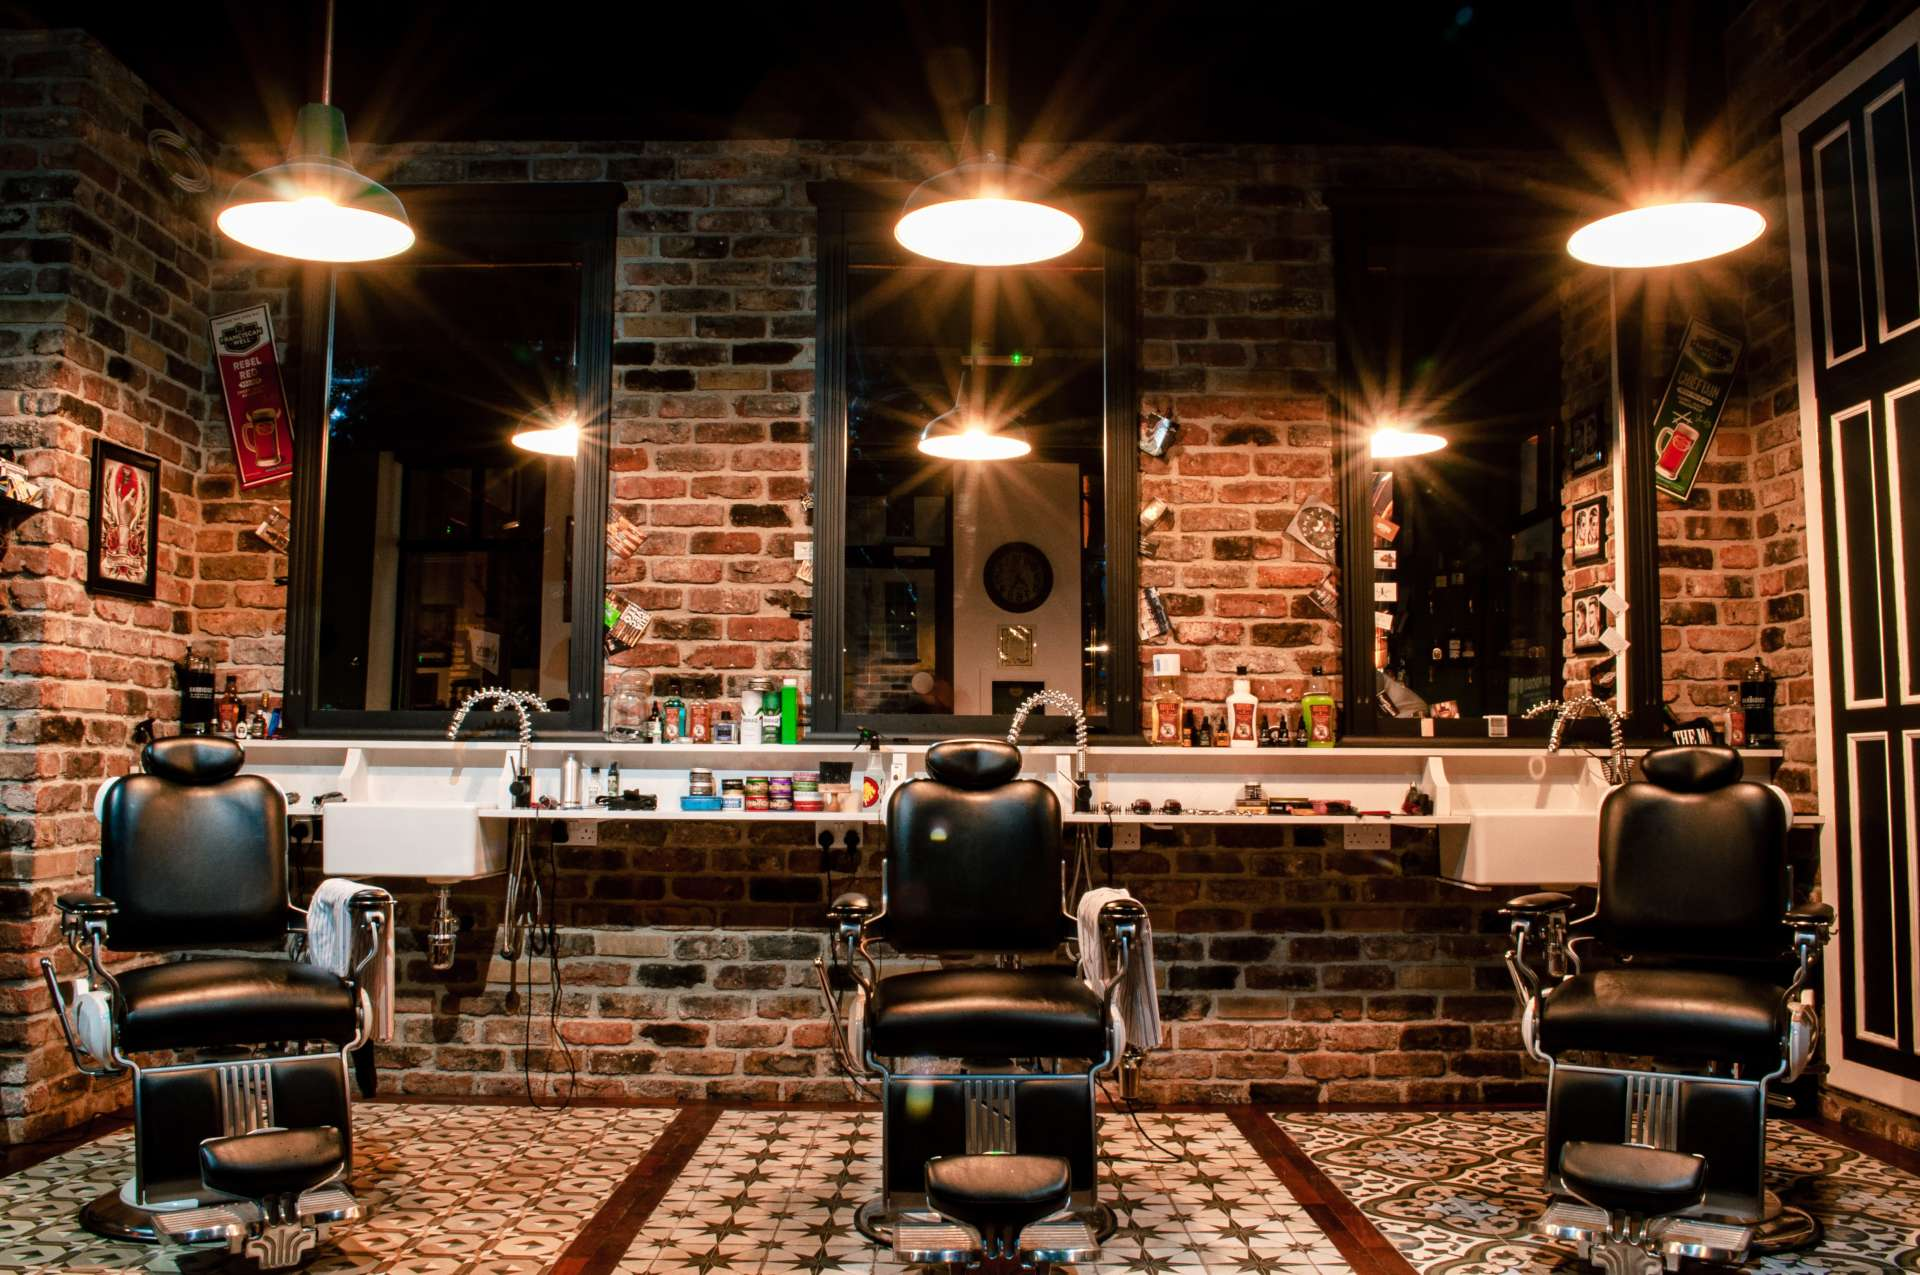
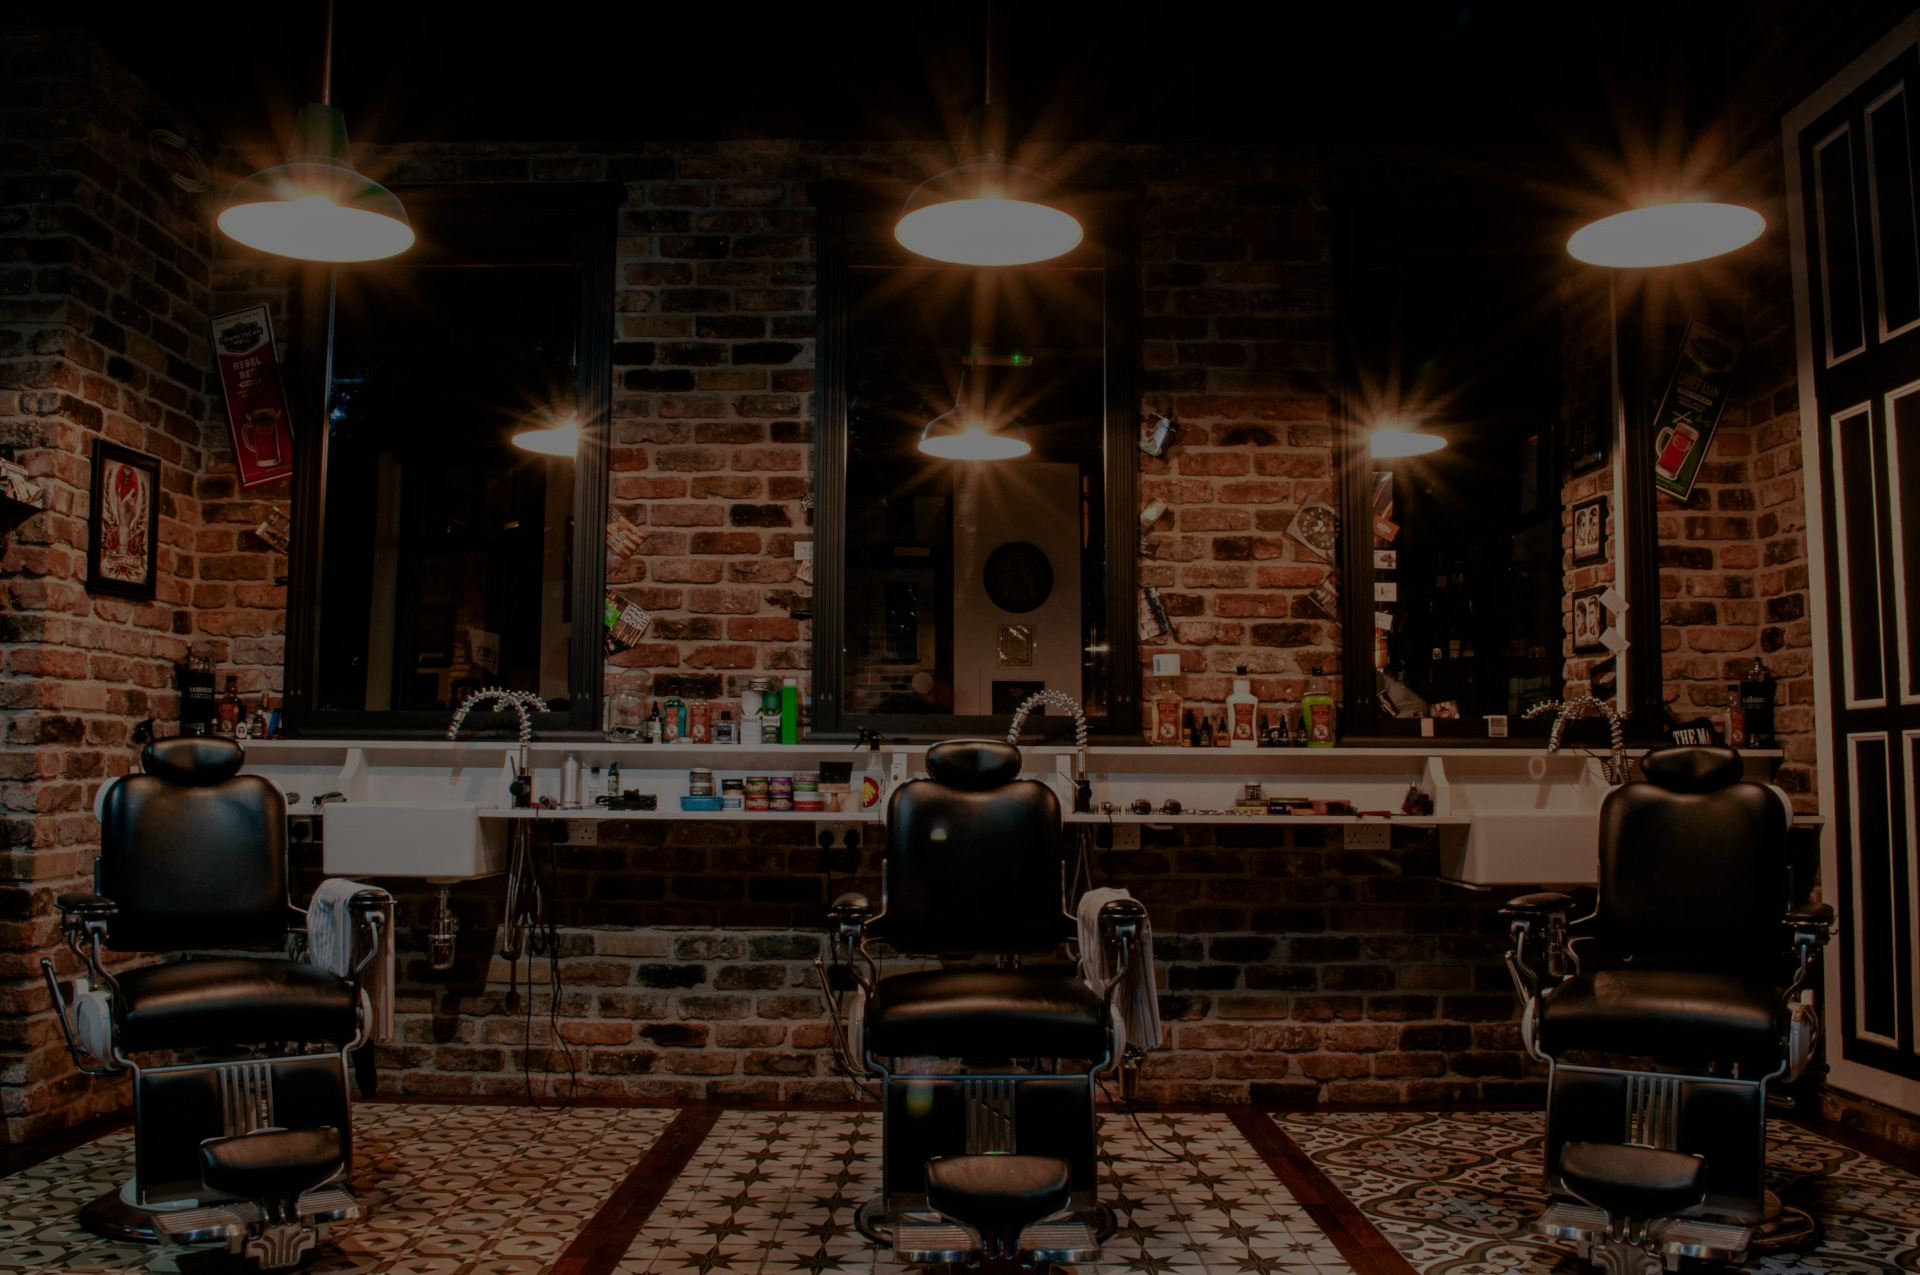
header grund - CSS / html

diff --git a/src/styles/header.scss b/src/styles/header.scss
@@ -1,52 +1,78 @@
 header {
     background-color: #000;
 
-    .nav_container {
-        display: flex;
-        justify-content: space-between;
-        flex-direction: row;
-        align-items: center;
-        width: 100%;
-        height: 40px;
-        background-color: $dark-color;
+    .navbar {
+        padding: 10px 0;
+        border: 2px dashed #0d0c0d;
 
-        .header_logo {
-            a {
-                margin-left: 10px;
-
-                color: #fff;
-                text-decoration: none;
-                text-transform: uppercase;
-                font-family: 'Barlow Semi Condensed', sans-serif;
-                font-size: 2rem;
-                font-weight: 600;
-            }
-        }
-
-        .menu {
+        .nav_container {
+            display: flex;
+            justify-content: space-between;
+            flex-direction: row;
+            align-items: center;
             width: 100%;
+            background-color: #0d0c0d;
 
-            color: #fff;
-            opacity: 70%;
-            text-transform: uppercase;
-            text-align: end;
-        }
+            .header_logo {
+                a {
+                    margin-left: 15px;
+                    color: #fff;
+                    text-decoration: none;
+                    text-transform: uppercase;
+                    font-family: 'Barlow Semi Condensed', sans-serif;
+                    font-size: 2rem;
+                    font-weight: 600;
+                }
+            }
 
-        .navbar {
-            ul {
-                display: none;
+            .menu {
+                width: 100%;
+                margin-right: 15px;
+                color: #fff;
+                opacity: 70%;
+                text-transform: uppercase;
+                text-align: end;
+            }
 
-                li {
-                    li a {}
+            .navbar_items {
+                ul {
+                    display: none;
                 }
             }
         }
     }
 
-    .header_container {
-        height: 640px;
-        width: 100%;
-        background: no-repeat center url("/img/header.jpg");
-        background-size: cover;
+    .header_main {
+
+        .header_container {
+            height: (640-81px);
+            width: 90%;
+            background: no-repeat center url("/img/header.jpg");
+            background-size: cover;
+            text-transform: uppercase;
+            padding: 20px;
+
+            :first-child {
+                color: $gold-color;
+                font-size: 1.2em;
+            }
+
+            h1 {
+                color: #fff;
+                font-size: 2.8rem;
+            }
+
+            :nth-child(3) {
+                text-transform: none;
+                color: #fff;
+            }
+
+            .about_btn {
+                text-decoration: none;
+                color: $gold-color;
+                font-weight: 700;
+                border: 2px solid white;
+            }
+        }
     }
 }

diff --git a/src/index.html b/src/index.html
@@ -17,32 +17,37 @@
 <body>
     <!-- HEADER -->
     <header>
-        <div class="nav_container">
-            <div class="header_logo">
-                <a href="index.html">Barbershop</a>
+        <section class="navbar">
+            <div class="nav_container">
+                <div class="header_logo">
+                    <a href="index.html">Barbershop</a>
+                </div>
+                <div class="menu">
+                    <p>Menu</p>
+                </div>
+                <nav class="navbar_items">
+                    <ul>
+                        <li><a href="#home">Home</a></li>
+                        <li><a href="#about">About</a></li>
+                        <li><a href="#pricing">Pricing</a></li>
+                        <li><a href="#gallery">Gallery</a></li>
+                        <li><a href="#team">Team</a></li>
+                        <li><a href="#blog">Blog</a>
+                        <li><a href="#contact">Contact</a></li>
+                    </ul>
+                </nav>
             </div>
-            <div class="menu">
-                <p>Menu</p>
+        </section>
+        <section class="header_main">
+            <div class="header_container">
+                <p>Welcome to Barbershop</p>
+                <h1 class="header_headline">We will make your style of your dreams</h1>
+                <p class="header_text">A small river named Duden flows by their place and supplies it with the necessary
+                    regelialia. It is a
+                    paradisematic country, in which roasted parts of sentences fly into your mouth.</p>
+                <a class="about_btn" href="#about">Learn more about us</a>
             </div>
-            <nav class="navbar">
-                <ul>
-                    <li><a href="#home">Home</a></li>
-                    <li><a href="#about">About</a></li>
-                    <li><a href="#pricing">Pricing</a></li>
-                    <li><a href="#gallery">Gallery</a></li>
-                    <li><a href="#team">Team</a></li>
-                    <li><a href="#blog">Blog</a>
-                    <li><a href="#contact">Contact</a></li>
-                </ul>
-            </nav>
-        </div>
-        <div class="header_container">
-            <p>Welcome to Barbershop</p>
-            <h1 class="header_headline">We will make your style of your dreams</h1>
-            <p>A small river named Duden flows by their place and supplies it with the necessary regelialia. It is a
-                paradisematic country, in which roasted parts of sentences fly into your mouth.</p>
-            <a class="about_btn" href="#about">Learn more about us</a>
-        </div>
+        </section>
     </header>
 
     <!-- MAIN -->

diff --git a/src/styles/header.css b/src/styles/header.css
@@ -1,16 +1,20 @@
 header {
   background-color: #000;
 }
-header .nav_container {
+header .navbar {
+  padding: 10px 0;
+  border: 2px dashed #0d0c0d;
+}
+header .navbar .nav_container {
   display: flex;
   justify-content: space-between;
   flex-direction: row;
   align-items: center;
   width: 100%;
-  height: 40px;
+  background-color: #0d0c0d;
 }
-header .nav_container bac .header_logo a {
-  margin-left: 10px;
+header .navbar .nav_container .header_logo a {
+  margin-left: 15px;
   color: #fff;
   text-decoration: none;
   text-transform: uppercase;
@@ -18,19 +22,39 @@ header .nav_container bac .header_logo a {
   font-size: 2rem;
   font-weight: 600;
 }
-header .nav_container .menu {
+header .navbar .nav_container .menu {
   width: 100%;
+  margin-right: 15px;
   color: #fff;
   opacity: 70%;
   text-transform: uppercase;
   text-align: end;
 }
-header .nav_container .navbar ul {
+header .navbar .nav_container .navbar_items ul {
   display: none;
 }
-header .header_container {
-  height: 640px;
-  width: 100%;
+header .header_main .header_container {
+  height: 559px;
+  width: 90%;
   background: no-repeat center url("/img/header.jpg");
   background-size: cover;
+  text-transform: uppercase;
+  padding: 20px;
+}
+header .header_main .header_container :first-child {
+  color: rgb(191, 146, 91);
+  font-size: 1.2em;
+}
+header .header_main .header_container h1 {
+  color: #fff;
+  font-family: "Barlow Semi Condensed", sans-serif;
+  font-size: 2.8rem;
+}
+header .header_main .header_container :nth-child(3) {
+  text-transform: none;
+  color: #fff;
+}
+header .header_main .header_container a {
+  text-decoration: none;
+  color: rgb(191, 146, 91);
 }/*# sourceMappingURL=header.css.map */

diff --git a/src/styles/style.css b/src/styles/style.css
@@ -1,6 +1,6 @@
 @charset "UTF-8";
 /* IMPORTS */
-@import "/src/styles/header.css";
+@import url("/src/styles/header.css");
 /* MIXIN'S */
 /* för att addera - @include ..();*/
 /* PRIMARY */
@@ -10,11 +10,12 @@ h1 {
   font-family: "Barlow Semi Condensed", sans-serif;
 }
 
-p {
+p, a {
   font-family: "Poppins", sans-serif;
 }
 
 /* DEFAULT */
 body {
   margin: 0;
+  background: #000;
 }/*# sourceMappingURL=style.css.map */

diff --git a/src/styles/style.scss b/src/styles/style.scss
@@ -1,5 +1,5 @@
     /* IMPORTS */
-    @import "/src/styles/header.css";
+    @import url("/src/styles/header.css");
 
     /* MIXIN'S */
     @mixin center() {
@@ -22,11 +22,12 @@
         font-family: 'Barlow Semi Condensed', sans-serif;
     }
 
-    p {
+    p, a {
         font-family: 'Poppins', sans-serif;
     }
 
     /* DEFAULT */
     body {
         margin: 0;
+        background: #000;
     }
